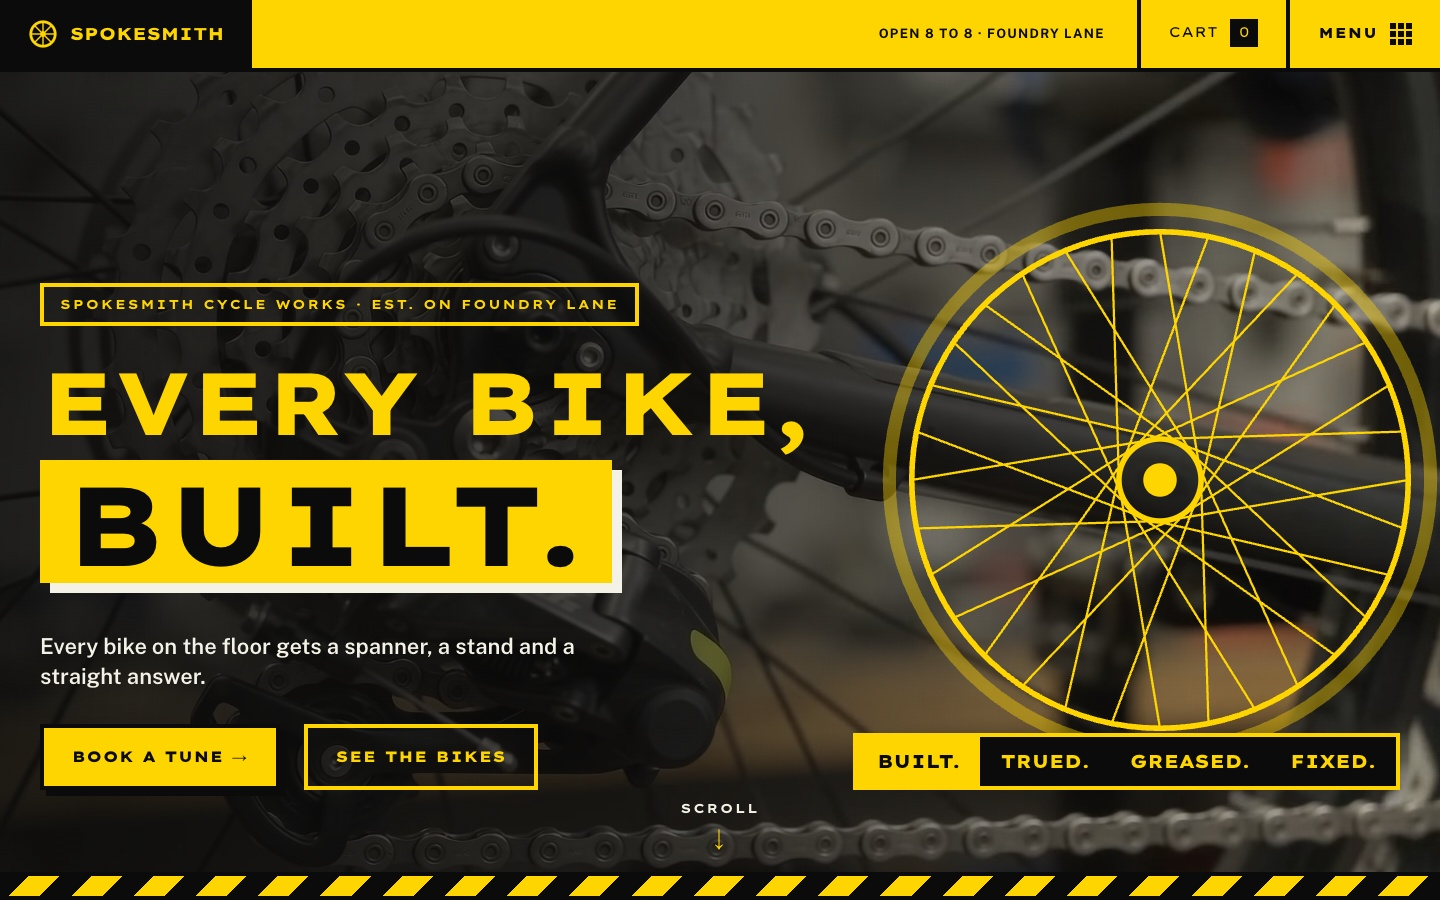
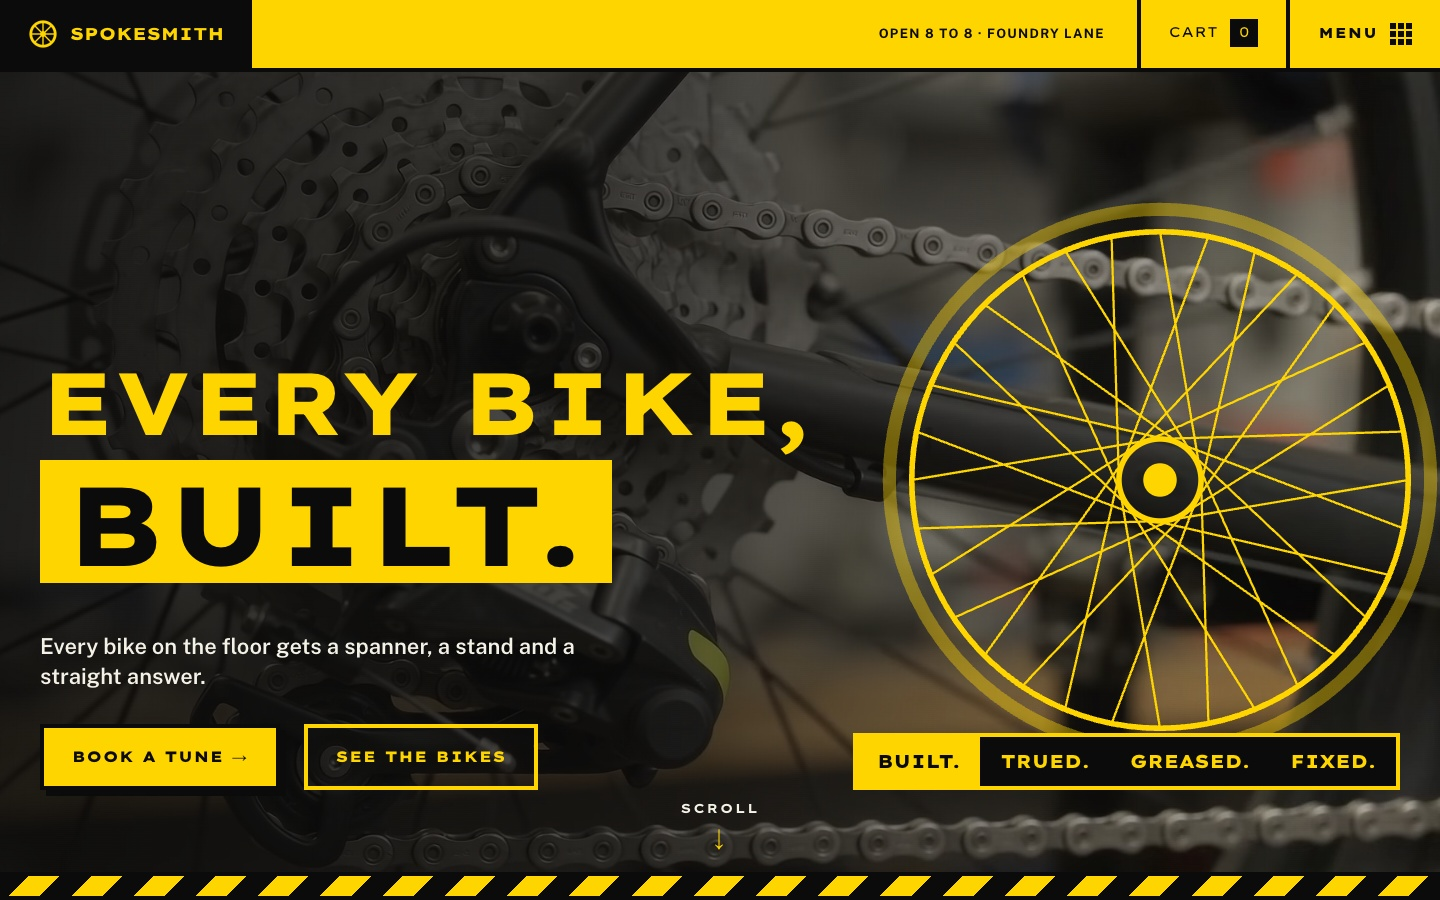
Day 28: hero fix
Remove hero eyebrow box, hide transition layer at rest and at scroll top, slot fits each word without the paper shadow strip.

diff --git a/site/components/Fx.tsx b/site/components/Fx.tsx
@@ -73,7 +73,7 @@ export default function Fx() {
       // JOIN TRANSITIONS (X): a yellow wipe or tape strip crosses as you leave a section, under 0.6 s, never blocks scroll
       const layer = document.createElement("div");
       layer.setAttribute("aria-hidden", "true");
-      layer.style.cssText = "position:fixed;inset:0;z-index:55;pointer-events:none;overflow:hidden";
+      layer.style.cssText = "position:fixed;inset:0;z-index:55;pointer-events:none;overflow:hidden;visibility:hidden;opacity:0";
       document.body.appendChild(layer);
       kill.push(() => layer.remove());
       const mk = (css: string, html = "") => { const d = document.createElement("div"); d.style.cssText = `position:absolute;${css}`; d.innerHTML = html; layer.appendChild(d); return d; };
@@ -91,15 +91,38 @@ export default function Fx() {
       const topH = mk("left:0;top:0;width:100%;height:50%;background:#ffd500;border-bottom:6px solid #0b0b0b;transform:translateY(-101%)");
       const botH = mk("left:0;bottom:0;width:100%;height:50%;background:#ffd500;border-top:6px solid #0b0b0b;transform:translateY(101%)");
 
+      // every strip rests hidden and off-screen; the layer is only visible while a transition plays
+      const strips = [x34, tape, x56, x33, topH, botH];
+      let current: gsap.core.Timeline | null = null;
       let busy = false, armed = false;
-      const off = onSiteReady(() => setTimeout(() => (armed = true), 600));
+      const rest = () => {
+        const old = current;
+        current = null;
+        busy = false;
+        old?.kill();
+        gsap.set([x34, x56], { x: "-300%", scale: 1 });
+        gsap.set(tape, { x: "300%" });
+        gsap.set(x33, { scale: 0.1, opacity: 0 });
+        gsap.set(topH, { y: "-200%" });
+        gsap.set(botH, { y: "200%" });
+        gsap.set(strips, { visibility: "hidden" });
+        gsap.set(layer, { autoAlpha: 0 });
+      };
+      rest();
+      kill.push(() => current?.kill());
+      const off = onSiteReady(() => { rest(); setTimeout(() => (armed = true), 600); });
       kill.push(off);
       const play = (build: (tl: gsap.core.Timeline, back: boolean) => void) => (back: boolean) => {
-        if (!armed || busy) return;
+        if (!armed || busy || window.scrollY < 120) return;
         busy = true;
-        const tl = gsap.timeline({ onComplete: () => { busy = false; } });
+        gsap.set(layer, { autoAlpha: 1 });
+        gsap.set(strips, { visibility: "visible" });
+        const tl = gsap.timeline({ onComplete: rest });
+        current = tl;
         build(tl, back);
       };
+      // nothing from any transition may show at the top of the page
+      ScrollTrigger.create({ start: 0, end: "max", onUpdate: (self) => { if (busy && self.scroll() < 120) rest(); } });
       const join = (target: string, fn: (back: boolean) => void) => ScrollTrigger.create({ trigger: target, start: "top 62%", onEnter: () => fn(false), onEnterBack: () => fn(true) });
 
       join("#browse", play((tl, back) => {

diff --git a/site/components/Hero.tsx b/site/components/Hero.tsx
@@ -42,7 +42,7 @@ export default function Hero() {
       flip = gsap.timeline()
         .to(cur, { rotationX: -90, yPercent: -25, autoAlpha: 0, duration: 0.3, ease: "power2.in" }, 0)
         .fromTo(nxt, { rotationX: 90, yPercent: 25, autoAlpha: 0 }, { rotationX: 0, yPercent: 0, autoAlpha: 1, duration: 0.4, ease: "power3.out" }, 0.25)
-        .to(slot, { width: () => nxt.offsetWidth, duration: 0.45, ease: "power3.inOut" }, 0.1)
+        .to(slot, { width: () => Math.ceil(parseFloat(getComputedStyle(nxt).width)), duration: 0.45, ease: "power3.inOut" }, 0.1)
         .add(() => mark(at), 0.25);
     };
     const tl = gsap.timeline({ repeat: -1, paused: true });
@@ -73,7 +73,6 @@ export default function Hero() {
       <div className="absolute inset-0" style={{ background: "linear-gradient(95deg, rgba(11,11,11,.9) 0%, rgba(11,11,11,.72) 45%, rgba(11,11,11,.12) 100%)" }} />
       <SpokeWheel className="absolute left-[880px] top-[200px] h-[560px] w-[560px]" />
       <div className="sm-wrap relative z-10 flex h-full flex-col justify-end pb-[110px]">
-        <p className="sm-eyebrow mb-8 inline-block self-start border-4 border-[#ffd500] px-4 py-2">Spokesmith Cycle Works · Est. on Foundry Lane</p>
         <h1 className="sm-display leading-[1.02]">
           <span className="block text-[88px]">Every bike,</span>
           <span className="sm-slot mt-3 text-[112px]" data-slot>

diff --git a/site/site.css b/site/site.css
@@ -65,9 +65,9 @@ html, body { overflow-x: clip; }
   a:hover .sm-roll > span, button:hover .sm-roll > span, .is-hover .sm-roll > span { transform: translateY(-100%); }
 
   /* hero */
-  .sm-slot { display: inline-block; position: relative; overflow: hidden; vertical-align: top; background: var(--yellow); color: var(--ink); box-shadow: 10px 10px 0 var(--paper); }
+  .sm-slot { display: inline-block; position: relative; overflow: hidden; vertical-align: top; background: var(--yellow); color: var(--ink); }
   .sm-slot-word { position: absolute; left: 0; top: 0; white-space: nowrap; padding: 0.06em 0.22em 0.02em; }
-  .sm-slot-first { position: relative; display: block; }
+  .sm-slot-first { position: relative; display: inline-block; }
   .sm-tag { color: var(--yellow); }
   .sm-tag.on { background: var(--yellow); color: var(--ink); }
 
